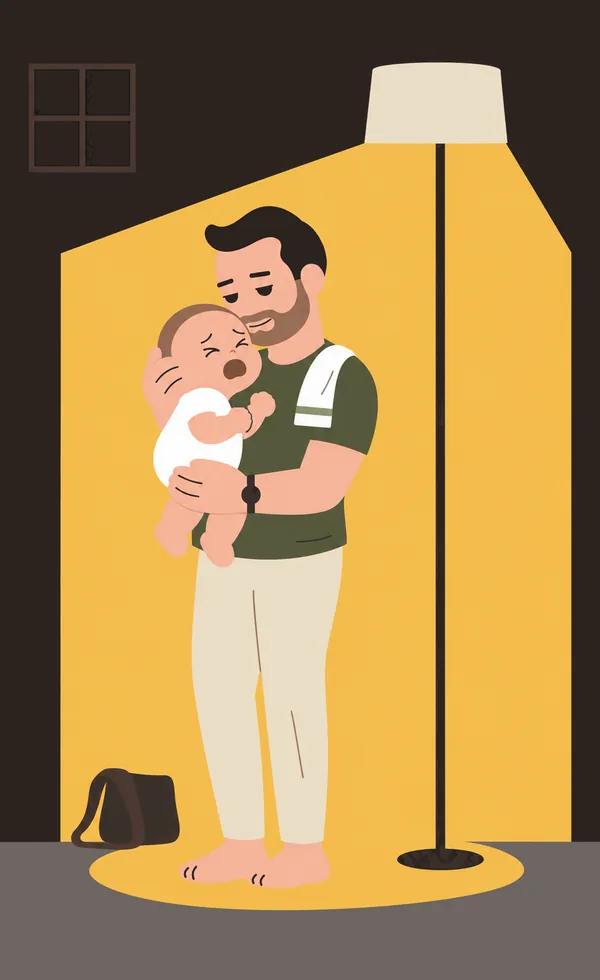
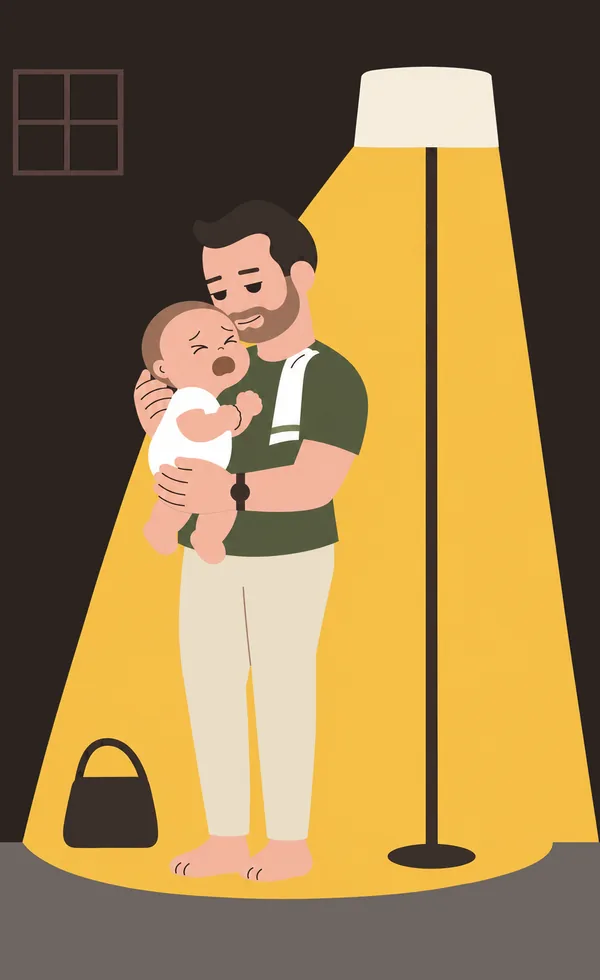
Recorta as cenas servidas das placas corrigidas do IMG-DEFECT
M05, M06 e M04 refeitos com os mesmos nomes, tamanhos e caixas; chão noturno do M05 ajustado ao token #6E6560.

Changed region(s): [[0.03, 0.0612, 1.0, 0.949], [0.0, 0.0612, 0.24, 0.1837]]

diff --git a/web/public/cenas/inicio/PROVENANCE.md b/web/public/cenas/inicio/PROVENANCE.md
@@ -6,22 +6,22 @@ The composed green-key scenes of the old Início (heroi, faixa-cacau and tabela,
 
 | file | sha256 | bytes | WxH | source | script (name + sha256) | operation | date |
 |---|---|---|---|---|---|---|---|
-| m04-recorte-1200w.webp | ab6055b0cc9f6d247d6b7fc1016b213c5839e71abc4251c4d3200daaf0850134 | 24910 | 1200x870 | DIRECAO_FABLE/4_cenas/04_tummy_espelho.png sha256 6b02a8a5d4df0db79bbb8960d174543c9bad64354b8654be19fa18bcab4074b4 | gerar_ativos.py sha256 8485a4e01cd8f989db7340d77d502f4da907c993941f3b3b68ca94eb8b5ae7d6 | colour snap (tolerances papel 12, cacau 14, areia 12, #6E6560 10, #3A302B 7), crop per slot sheet r2, LANCZOS resize to 1200x870, encoder WebP q82 m6 LANCZOS | 2026-11-18 |
-| m04-recorte-350w.webp | b843a86d0fb500f64a8a5624bd846846ade8833986334f18a07f1d2fecd464c0 | 6546 | 350x254 | DIRECAO_FABLE/4_cenas/04_tummy_espelho.png sha256 6b02a8a5d4df0db79bbb8960d174543c9bad64354b8654be19fa18bcab4074b4 | gerar_ativos.py sha256 8485a4e01cd8f989db7340d77d502f4da907c993941f3b3b68ca94eb8b5ae7d6 | colour snap (tolerances papel 12, cacau 14, areia 12, #6E6560 10, #3A302B 7), crop per slot sheet r2, LANCZOS resize to 350x254, encoder WebP q82 m6 LANCZOS | 2026-11-18 |
-| m04-recorte-600w.webp | 12465801bde4505f95f419bf01ef33aacf7f9fe5344b3503775eb2d8c09b92ab | 11364 | 600x435 | DIRECAO_FABLE/4_cenas/04_tummy_espelho.png sha256 6b02a8a5d4df0db79bbb8960d174543c9bad64354b8654be19fa18bcab4074b4 | gerar_ativos.py sha256 8485a4e01cd8f989db7340d77d502f4da907c993941f3b3b68ca94eb8b5ae7d6 | colour snap (tolerances papel 12, cacau 14, areia 12, #6E6560 10, #3A302B 7), crop per slot sheet r2, LANCZOS resize to 600x435, encoder WebP q82 m6 LANCZOS | 2026-11-18 |
-| m04-recorte-700w.webp | 33f61e0929b6fcbfdf7c76bb7fdc2c9b4e431713fa3b6a5c6679d1a244551cad | 13316 | 700x508 | DIRECAO_FABLE/4_cenas/04_tummy_espelho.png sha256 6b02a8a5d4df0db79bbb8960d174543c9bad64354b8654be19fa18bcab4074b4 | gerar_ativos.py sha256 8485a4e01cd8f989db7340d77d502f4da907c993941f3b3b68ca94eb8b5ae7d6 | colour snap (tolerances papel 12, cacau 14, areia 12, #6E6560 10, #3A302B 7), crop per slot sheet r2, LANCZOS resize to 700x508, encoder WebP q82 m6 LANCZOS | 2026-11-18 |
-| m05-luz-390c-390w.png | 6e22e3c1b293b8e4c9a3ebaacb8d76be4aeea5e61498f910ceec78c07e9cb205 | 5247 | 390x306 | DIRECAO_FABLE/4_cenas/05_troca_1730_v3.png sha256 8fb82e2b25fa6e628234fb630d397ff0faa92998651ccc9d12103422f444385e minus DIRECAO_FABLE/7_camadas_luz/v4/M05_base_sol.png sha256 1f2adcaae880b43a67b805ed9d341a7b57051b8dcc6df763d6939c9acbfe4b97 | gerar_ativos.py sha256 8485a4e01cd8f989db7340d77d502f4da907c993941f3b3b68ca94eb8b5ae7d6 | colour snap (tolerances papel 12, cacau 14, areia 12, #6E6560 10, #3A302B 7), layer = pixels where lit differs from base; crop per slot sheet r2, LANCZOS resize to 390x306, encoder layer png_paleta | 2026-11-18 |
-| m05-luz-900w.png | f7450fe38b1eba6e677d0e59f8c2b785d102c0619fbade265fad7d810f23066d | 9967 | 900x507 | DIRECAO_FABLE/4_cenas/05_troca_1730_v3.png sha256 8fb82e2b25fa6e628234fb630d397ff0faa92998651ccc9d12103422f444385e minus DIRECAO_FABLE/7_camadas_luz/v4/M05_base_sol.png sha256 1f2adcaae880b43a67b805ed9d341a7b57051b8dcc6df763d6939c9acbfe4b97 | gerar_ativos.py sha256 8485a4e01cd8f989db7340d77d502f4da907c993941f3b3b68ca94eb8b5ae7d6 | colour snap (tolerances papel 12, cacau 14, areia 12, #6E6560 10, #3A302B 7), layer = pixels where lit differs from base; crop per slot sheet r2, LANCZOS resize to 900x507, encoder layer png_paleta | 2026-11-18 |
-| m05-sol-1672w.webp | 5878b0856ba4df23143041043a235993eb1bbb786b30b3a5071b5c8777196370 | 31976 | 1672x941 | DIRECAO_FABLE/7_camadas_luz/v4/M05_base_sol.png sha256 1f2adcaae880b43a67b805ed9d341a7b57051b8dcc6df763d6939c9acbfe4b97 | gerar_ativos.py sha256 8485a4e01cd8f989db7340d77d502f4da907c993941f3b3b68ca94eb8b5ae7d6 | colour snap (tolerances papel 12, cacau 14, areia 12, #6E6560 10, #3A302B 7), crop per slot sheet r2, LANCZOS resize to 1672x941, encoder WebP q82 m6 LANCZOS | 2026-11-18 |
-| m05-sol-390c-390w.webp | df5f9050b110e5395cd358a31deb9ef762429794c83490eefff8b0fc184cd933 | 8108 | 390x306 | DIRECAO_FABLE/7_camadas_luz/v4/M05_base_sol.png sha256 1f2adcaae880b43a67b805ed9d341a7b57051b8dcc6df763d6939c9acbfe4b97 | gerar_ativos.py sha256 8485a4e01cd8f989db7340d77d502f4da907c993941f3b3b68ca94eb8b5ae7d6 | colour snap (tolerances papel 12, cacau 14, areia 12, #6E6560 10, #3A302B 7), crop per slot sheet r2, LANCZOS resize to 390x306, encoder WebP q82 m6 LANCZOS | 2026-11-18 |
-| m05-sol-390c-780w.webp | 5f5b325f34b953fe3be72830c8003cca867c5439e8e88e22442f244e4262bd35 | 18268 | 780x612 | DIRECAO_FABLE/7_camadas_luz/v4/M05_base_sol.png sha256 1f2adcaae880b43a67b805ed9d341a7b57051b8dcc6df763d6939c9acbfe4b97 | gerar_ativos.py sha256 8485a4e01cd8f989db7340d77d502f4da907c993941f3b3b68ca94eb8b5ae7d6 | colour snap (tolerances papel 12, cacau 14, areia 12, #6E6560 10, #3A302B 7), crop per slot sheet r2, LANCZOS resize to 780x612, encoder WebP q82 m6 LANCZOS | 2026-11-18 |
-| m05-sol-900w.webp | 9f40a8c1d44c20d838334d4c95072eb59d0f6f81e6a9a0867722d2a31c7d2b46 | 15808 | 900x507 | DIRECAO_FABLE/7_camadas_luz/v4/M05_base_sol.png sha256 1f2adcaae880b43a67b805ed9d341a7b57051b8dcc6df763d6939c9acbfe4b97 | gerar_ativos.py sha256 8485a4e01cd8f989db7340d77d502f4da907c993941f3b3b68ca94eb8b5ae7d6 | colour snap (tolerances papel 12, cacau 14, areia 12, #6E6560 10, #3A302B 7), crop per slot sheet r2, LANCZOS resize to 900x507, encoder WebP q82 m6 LANCZOS | 2026-11-18 |
-| m06-apagada-300w.webp | 186d9678b6c5ae1412f28100ec7689a98777d00b01364715cd817aa9e492d0b1 | 5880 | 300x490 | DIRECAO_FABLE/7_camadas_luz/v4/M06_base_apagada.png sha256 88c563c3f3906b3cfcd51eed4fbc7358f7917e40c7d23dc75652ba333b22b520 | gerar_ativos.py sha256 8485a4e01cd8f989db7340d77d502f4da907c993941f3b3b68ca94eb8b5ae7d6 | colour snap (tolerances papel 12, cacau 14, areia 12, #6E6560 10, #3A302B 7), crop per slot sheet r2, LANCZOS resize to 300x490, encoder WebP q82 m6 LANCZOS | 2026-11-18 |
-| m06-apagada-396w.webp | b60a669488bb4eb873bd1f2ac2bcff4c8c8d10318d18d017486d85cc6256e443 | 7894 | 396x647 | DIRECAO_FABLE/7_camadas_luz/v4/M06_base_apagada.png sha256 88c563c3f3906b3cfcd51eed4fbc7358f7917e40c7d23dc75652ba333b22b520 | gerar_ativos.py sha256 8485a4e01cd8f989db7340d77d502f4da907c993941f3b3b68ca94eb8b5ae7d6 | colour snap (tolerances papel 12, cacau 14, areia 12, #6E6560 10, #3A302B 7), crop per slot sheet r2, LANCZOS resize to 396x647, encoder WebP q82 m6 LANCZOS | 2026-11-18 |
-| m06-apagada-600w.webp | de72338e27e772910a24653a1376b1de9511826d8f1e09c8b7facb8930f4541d | 12662 | 600x980 | DIRECAO_FABLE/7_camadas_luz/v4/M06_base_apagada.png sha256 88c563c3f3906b3cfcd51eed4fbc7358f7917e40c7d23dc75652ba333b22b520 | gerar_ativos.py sha256 8485a4e01cd8f989db7340d77d502f4da907c993941f3b3b68ca94eb8b5ae7d6 | colour snap (tolerances papel 12, cacau 14, areia 12, #6E6560 10, #3A302B 7), crop per slot sheet r2, LANCZOS resize to 600x980, encoder WebP q82 m6 LANCZOS | 2026-11-18 |
-| m06-apagada-792w.webp | 939bb2432dd6679c75d9836ffb1f2b2c50701ce9b41ea810db3c703dc9fa8027 | 17580 | 792x1293 | DIRECAO_FABLE/7_camadas_luz/v4/M06_base_apagada.png sha256 88c563c3f3906b3cfcd51eed4fbc7358f7917e40c7d23dc75652ba333b22b520 | gerar_ativos.py sha256 8485a4e01cd8f989db7340d77d502f4da907c993941f3b3b68ca94eb8b5ae7d6 | colour snap (tolerances papel 12, cacau 14, areia 12, #6E6560 10, #3A302B 7), crop per slot sheet r2, LANCZOS resize to 792x1293, encoder WebP q82 m6 LANCZOS | 2026-11-18 |
-| m06-luz-300w.png | 2c5c8fd5b4936bdb7299f9bea5e1d999727cbf9442dae9bb59d07d0735394e46 | 7720 | 300x490 | DIRECAO_FABLE/4_cenas/06_colo_1745_v5.png sha256 2a9a0daa6790d1226683df76dcc746210cf7cc142957adc620cd8bfb400f8619 minus DIRECAO_FABLE/7_camadas_luz/v4/M06_base_apagada.png sha256 88c563c3f3906b3cfcd51eed4fbc7358f7917e40c7d23dc75652ba333b22b520 | gerar_ativos.py sha256 8485a4e01cd8f989db7340d77d502f4da907c993941f3b3b68ca94eb8b5ae7d6 | colour snap (tolerances papel 12, cacau 14, areia 12, #6E6560 10, #3A302B 7), layer = pixels where lit differs from base; crop per slot sheet r2, LANCZOS resize to 300x490, encoder layer png_paleta | 2026-11-18 |
-| m06-luz-396w.png | 19a12cf1cd52a04ff7c2a9919cac334374458575c576ba3e32794e284cd6b8f1 | 10250 | 396x647 | DIRECAO_FABLE/4_cenas/06_colo_1745_v5.png sha256 2a9a0daa6790d1226683df76dcc746210cf7cc142957adc620cd8bfb400f8619 minus DIRECAO_FABLE/7_camadas_luz/v4/M06_base_apagada.png sha256 88c563c3f3906b3cfcd51eed4fbc7358f7917e40c7d23dc75652ba333b22b520 | gerar_ativos.py sha256 8485a4e01cd8f989db7340d77d502f4da907c993941f3b3b68ca94eb8b5ae7d6 | colour snap (tolerances papel 12, cacau 14, areia 12, #6E6560 10, #3A302B 7), layer = pixels where lit differs from base; crop per slot sheet r2, LANCZOS resize to 396x647, encoder layer png_paleta | 2026-11-18 |
+| m04-recorte-1200w.webp | 09abe79e2a049eddd3dac449e4f335c0781ddd11da5b9992ccc67d2ac5635140 | 25560 | 1200x870 | IMG_DEFECT/accept_20261119/out/04_tummy_espelho_v2.png sha256:d50e9125f03c45d1ad626a0be8c29efae178e370bf71448c0b21c0eb92e6e2f0 | recortar.py sha256 0dabcebe6a4e2c07ecfd3bdcffd4ae025a934db8cb4f5c4200fff0e659aef3bc | crop 0,30,1200,900 (1200x870), LANCZOS to 1200x870, encoder WebP q82 m6 | 2026-11-19 |
+| m04-recorte-350w.webp | 5330c84b11e9a71f939c2dab4c77e708ceb5bb82c339e44630a9d5a7fcb434de | 6622 | 350x254 | IMG_DEFECT/accept_20261119/out/04_tummy_espelho_v2.png sha256:d50e9125f03c45d1ad626a0be8c29efae178e370bf71448c0b21c0eb92e6e2f0 | recortar.py sha256 0dabcebe6a4e2c07ecfd3bdcffd4ae025a934db8cb4f5c4200fff0e659aef3bc | crop 0,30,1200,900 (1200x870), LANCZOS to 350x254, encoder WebP q82 m6 | 2026-11-19 |
+| m04-recorte-600w.webp | dddd45c0a91d570f735ea237d35bf1d6b866f898f1f1625d14c49fa5fef2df21 | 11730 | 600x435 | IMG_DEFECT/accept_20261119/out/04_tummy_espelho_v2.png sha256:d50e9125f03c45d1ad626a0be8c29efae178e370bf71448c0b21c0eb92e6e2f0 | recortar.py sha256 0dabcebe6a4e2c07ecfd3bdcffd4ae025a934db8cb4f5c4200fff0e659aef3bc | crop 0,30,1200,900 (1200x870), LANCZOS to 600x435, encoder WebP q82 m6 | 2026-11-19 |
+| m04-recorte-700w.webp | 2046c33f53617940bbdc46df7855dbfd6f1d68691367da0b88de96079b8b76e1 | 13792 | 700x508 | IMG_DEFECT/accept_20261119/out/04_tummy_espelho_v2.png sha256:d50e9125f03c45d1ad626a0be8c29efae178e370bf71448c0b21c0eb92e6e2f0 | recortar.py sha256 0dabcebe6a4e2c07ecfd3bdcffd4ae025a934db8cb4f5c4200fff0e659aef3bc | crop 0,30,1200,900 (1200x870), LANCZOS to 700x508, encoder WebP q82 m6 | 2026-11-19 |
+| m05-luz-390c-390w.png | d61b4a48b5121e24dacc232096ade633865fc5c1bdc1d22be8659c5b90f7b15f | 5232 | 390x306 | IMG_DEFECT/out/v5/M05_luz_lampada.png sha256:962250fd9183bd9d62952e5ef19afe6d6deffad148151f858cc4e4889bee3ae1 (RGBA lamp layer; base IMG_DEFECT/out/v5/M05_base_sol.png sha256:b3867008a76b9858f7c72aeeed8925be0af4fbc08586084ca4b7b43c4f9e0258) | recortar.py sha256 0dabcebe6a4e2c07ecfd3bdcffd4ae025a934db8cb4f5c4200fff0e659aef3bc | crop 473,0,1672,941 (1199x941); colour snap (night floor #645A57->#6E6560 on M05 only), layer = RGBA lamp layer from IMG_DEFECT v5, premultiplied LANCZOS to 390x306, encoder png_paleta (256 colours) | 2026-11-19 |
+| m05-luz-900w.png | 3e3bf733a9aaf3276e64a07bc9573da0553acea8dcdd68230f6c4aa976e4afaf | 9047 | 900x507 | IMG_DEFECT/out/v5/M05_luz_lampada.png sha256:962250fd9183bd9d62952e5ef19afe6d6deffad148151f858cc4e4889bee3ae1 (RGBA lamp layer; base IMG_DEFECT/out/v5/M05_base_sol.png sha256:b3867008a76b9858f7c72aeeed8925be0af4fbc08586084ca4b7b43c4f9e0258) | recortar.py sha256 0dabcebe6a4e2c07ecfd3bdcffd4ae025a934db8cb4f5c4200fff0e659aef3bc | crop 0,0,1672,941 (1672x941); colour snap (night floor #645A57->#6E6560 on M05 only), layer = RGBA lamp layer from IMG_DEFECT v5, premultiplied LANCZOS to 900x507, encoder png_paleta (256 colours) | 2026-11-19 |
+| m05-sol-1672w.webp | a3827846c9e4e8d8ea98bdded10fbb787afbd98c005dfe5748942e490de02c37 | 32558 | 1672x941 | IMG_DEFECT/out/v5/M05_base_sol.png sha256:b3867008a76b9858f7c72aeeed8925be0af4fbc08586084ca4b7b43c4f9e0258 (served from the colour-snapped copy sha256:3bb79201ba2e289a67e0fd931ec8919fac11722879c72a77df08909701dfec5e) | recortar.py sha256 0dabcebe6a4e2c07ecfd3bdcffd4ae025a934db8cb4f5c4200fff0e659aef3bc | crop 0,0,1672,941 (1672x941), LANCZOS to 1672x941, encoder WebP q82 m6, night-floor colour snap #645A57->#6E6560 | 2026-11-19 |
+| m05-sol-390c-390w.webp | 80e5877b7ed09928dc2169b01ee92bd4def9158adb48551ccaca546aae71fa20 | 8166 | 390x306 | IMG_DEFECT/out/v5/M05_base_sol.png sha256:b3867008a76b9858f7c72aeeed8925be0af4fbc08586084ca4b7b43c4f9e0258 (served from the colour-snapped copy sha256:3bb79201ba2e289a67e0fd931ec8919fac11722879c72a77df08909701dfec5e) | recortar.py sha256 0dabcebe6a4e2c07ecfd3bdcffd4ae025a934db8cb4f5c4200fff0e659aef3bc | crop 473,0,1672,941 (1199x941), LANCZOS to 390x306, encoder WebP q82 m6, night-floor colour snap #645A57->#6E6560 | 2026-11-19 |
+| m05-sol-390c-780w.webp | 9492db67e5cb6709e1df49bb64d050780231eb7e54f4cd5d25804e30fc8a6ff0 | 17974 | 780x612 | IMG_DEFECT/out/v5/M05_base_sol.png sha256:b3867008a76b9858f7c72aeeed8925be0af4fbc08586084ca4b7b43c4f9e0258 (served from the colour-snapped copy sha256:3bb79201ba2e289a67e0fd931ec8919fac11722879c72a77df08909701dfec5e) | recortar.py sha256 0dabcebe6a4e2c07ecfd3bdcffd4ae025a934db8cb4f5c4200fff0e659aef3bc | crop 473,0,1672,941 (1199x941), LANCZOS to 780x612, encoder WebP q82 m6, night-floor colour snap #645A57->#6E6560 | 2026-11-19 |
+| m05-sol-900w.webp | 9c157f1a86a98732c5973b077d3a1ece45bc59d53af0ffcbecd618ed00c3faed | 16404 | 900x507 | IMG_DEFECT/out/v5/M05_base_sol.png sha256:b3867008a76b9858f7c72aeeed8925be0af4fbc08586084ca4b7b43c4f9e0258 (served from the colour-snapped copy sha256:3bb79201ba2e289a67e0fd931ec8919fac11722879c72a77df08909701dfec5e) | recortar.py sha256 0dabcebe6a4e2c07ecfd3bdcffd4ae025a934db8cb4f5c4200fff0e659aef3bc | crop 0,0,1672,941 (1672x941), LANCZOS to 900x507, encoder WebP q82 m6, night-floor colour snap #645A57->#6E6560 | 2026-11-19 |
+| m06-apagada-300w.webp | d5a2b0ab00f8a73e49da6868da2e0d26f8a624ed0010a27851cc96cc0c8d44f8 | 5646 | 300x490 | IMG_DEFECT/out/v5/M06_base_apagada.png sha256:cec1c8bcb515a3379517fb613ece9f93d429845ac0700f3ecd1c49277b57b2f2 | recortar.py sha256 0dabcebe6a4e2c07ecfd3bdcffd4ae025a934db8cb4f5c4200fff0e659aef3bc | crop 0,0,981,1602 (981x1602), LANCZOS to 300x490, encoder WebP q82 m6 | 2026-11-19 |
+| m06-apagada-396w.webp | 2c45f9f6348479cb96a102cc97a927c6582d429dd9f8604fadf017f31b9428bb | 7710 | 396x647 | IMG_DEFECT/out/v5/M06_base_apagada.png sha256:cec1c8bcb515a3379517fb613ece9f93d429845ac0700f3ecd1c49277b57b2f2 | recortar.py sha256 0dabcebe6a4e2c07ecfd3bdcffd4ae025a934db8cb4f5c4200fff0e659aef3bc | crop 0,0,981,1602 (981x1602), LANCZOS to 396x647, encoder WebP q82 m6 | 2026-11-19 |
+| m06-apagada-600w.webp | c1e39270fb1d0bd99331edb0a0dad39a2b7016e87886cc52b9749fdc979ea4a2 | 12528 | 600x980 | IMG_DEFECT/out/v5/M06_base_apagada.png sha256:cec1c8bcb515a3379517fb613ece9f93d429845ac0700f3ecd1c49277b57b2f2 | recortar.py sha256 0dabcebe6a4e2c07ecfd3bdcffd4ae025a934db8cb4f5c4200fff0e659aef3bc | crop 0,0,981,1602 (981x1602), LANCZOS to 600x980, encoder WebP q82 m6 | 2026-11-19 |
+| m06-apagada-792w.webp | b483b4c41236d4f0f3bbf9c5f0ebd5aaa9953cc09f31778e8adc05c614c3c2df | 16828 | 792x1293 | IMG_DEFECT/out/v5/M06_base_apagada.png sha256:cec1c8bcb515a3379517fb613ece9f93d429845ac0700f3ecd1c49277b57b2f2 | recortar.py sha256 0dabcebe6a4e2c07ecfd3bdcffd4ae025a934db8cb4f5c4200fff0e659aef3bc | crop 0,0,981,1602 (981x1602), LANCZOS to 792x1293, encoder WebP q82 m6 | 2026-11-19 |
+| m06-luz-300w.png | bebaaa20f03f2807cc6a53894b568472adac502231a094c0eca7f6a6442e93bf | 10667 | 300x490 | IMG_DEFECT/out/v5/M06_luz_lampada.png sha256:11888e527629b421eb7ab36fdee72706ec1f3c44234d19c9d6cd659e75789ad3 (RGBA lamp layer; base IMG_DEFECT/out/v5/M06_base_apagada.png sha256:cec1c8bcb515a3379517fb613ece9f93d429845ac0700f3ecd1c49277b57b2f2) | recortar.py sha256 0dabcebe6a4e2c07ecfd3bdcffd4ae025a934db8cb4f5c4200fff0e659aef3bc | crop 0,0,981,1602 (981x1602); colour snap (night floor #645A57->#6E6560 on M05 only), layer = RGBA lamp layer from IMG_DEFECT v5, premultiplied LANCZOS to 300x490, encoder png_paleta (64 colours) | 2026-11-19 |
+| m06-luz-396w.png | c2d255b98a9714ca05dcd1fe84da8d246538c00d871c08e41fe037286fd8237f | 11918 | 396x647 | IMG_DEFECT/out/v5/M06_luz_lampada.png sha256:11888e527629b421eb7ab36fdee72706ec1f3c44234d19c9d6cd659e75789ad3 (RGBA lamp layer; base IMG_DEFECT/out/v5/M06_base_apagada.png sha256:cec1c8bcb515a3379517fb613ece9f93d429845ac0700f3ecd1c49277b57b2f2) | recortar.py sha256 0dabcebe6a4e2c07ecfd3bdcffd4ae025a934db8cb4f5c4200fff0e659aef3bc | crop 0,0,981,1602 (981x1602); colour snap (night floor #645A57->#6E6560 on M05 only), layer = RGBA lamp layer from IMG_DEFECT v5, premultiplied LANCZOS to 396x647, encoder png_paleta (6 colours) | 2026-11-19 |
 
 Not served (over the 12,000 B lamp-layer cap):
 
@@ -29,3 +29,5 @@ Not served (over the 12,000 B lamp-layer cap):
 - `m05-luz-390c-780w.png`: 12363 bytes
 - `m06-luz-600w.png`: 16312 bytes
 - `m06-luz-792w.png`: 24307 bytes
+
+IMG-SWAP (2026-11-19): re-cut from the accepted defect-pass plates; sources and acceptance: IMG_DEFECT/out/PROVENANCE.md (plates 1-2, layers, crops.json) and IMG_DEFECT/accept_20261119/PROVENANCE.md (acceptance, plate 4 fix run).

diff --git a/web/public/cenas/cuidado/PROVENANCE.md b/web/public/cenas/cuidado/PROVENANCE.md
@@ -8,11 +8,13 @@ m01-icaro-1152w.webp | DIRECAO_FABLE/4_cenas/01_mamada_0300.png sha256:758d36cd5
 m01-icaro-390c-390w.webp | DIRECAO_FABLE/4_cenas/01_mamada_0300.png sha256:758d36cd5f15cb880c127a2b39ddcda972edf21409ee5b2109a2363df51032ce | .oc/ativos/preparar_placas.py sha256:cd37214997b29d2d0d9331a49c32d5986e0bc1d73f75592ef88d849987d21b6e; snap whole plate to prep.py table, crop, downscale | crop 520,250,1300,915 (780x665) | LANCZOS to 390x332 from 780x665 | WebP q82 method 6, Pillow 12.3.0 | sha256:e06b28767214dad914b5b2dea1701c35e73198f0388f459bf8c9098b9fd007fe | 7512 B | 390x332
 m01-icaro-390c-780w.webp | DIRECAO_FABLE/4_cenas/01_mamada_0300.png sha256:758d36cd5f15cb880c127a2b39ddcda972edf21409ee5b2109a2363df51032ce | .oc/ativos/preparar_placas.py sha256:cd37214997b29d2d0d9331a49c32d5986e0bc1d73f75592ef88d849987d21b6e; snap whole plate to prep.py table, crop, downscale | crop 520,250,1300,915 (780x665) | none (1:1) to 780x665 from 780x665 | WebP q82 method 6, Pillow 12.3.0 | sha256:6cb64902f84e922eb13f872c4f2f7ad69e43695c0d5a9c2affdff6d62cfd5af4 | 15980 B | 780x665
 m01-icaro-760w.webp | DIRECAO_FABLE/4_cenas/01_mamada_0300.png sha256:758d36cd5f15cb880c127a2b39ddcda972edf21409ee5b2109a2363df51032ce | .oc/ativos/preparar_placas.py sha256:cd37214997b29d2d0d9331a49c32d5986e0bc1d73f75592ef88d849987d21b6e; snap whole plate to prep.py table, crop, downscale | crop 520,250,1672,915 (1152x665) | LANCZOS to 760x439 from 1152x665 | WebP q82 method 6, Pillow 12.3.0 | sha256:0db7b3ba34dac08be5cadd84a1e7f6342bdd5f5b4843d2ec5a8d2d94b81a906e | 10034 B | 760x439
-m05-maos-1472w.webp | DIRECAO_FABLE/4_cenas/05_troca_1730_v3.png sha256:8fb82e2b25fa6e628234fb630d397ff0faa92998651ccc9d12103422f444385e | .oc/ativos/preparar_placas.py sha256:cd37214997b29d2d0d9331a49c32d5986e0bc1d73f75592ef88d849987d21b6e; snap whole plate to prep.py table, crop, downscale | crop 200,50,1672,700 (1472x650) | none (1:1) to 1472x650 from 1472x650 | WebP q82 method 6, Pillow 12.3.0 | sha256:778eb19ec16de9781db42a8920c93769e31654f83ae6dd6233bc1cdafc04def8 | 28298 B | 1472x650
-m05-maos-390c-390w.webp | DIRECAO_FABLE/4_cenas/05_troca_1730_v3.png sha256:8fb82e2b25fa6e628234fb630d397ff0faa92998651ccc9d12103422f444385e | .oc/ativos/preparar_placas.py sha256:cd37214997b29d2d0d9331a49c32d5986e0bc1d73f75592ef88d849987d21b6e; snap whole plate to prep.py table, crop, downscale | crop 560,50,1300,700 (740x650) | LANCZOS to 390x343 from 740x650 | WebP q82 method 6, Pillow 12.3.0 | sha256:69c99a81b539431eea5155df9bb3c00882a4afa8a671abdbd497be3db4ab5132 | 11674 B | 390x343
-m05-maos-390c-740w.webp | DIRECAO_FABLE/4_cenas/05_troca_1730_v3.png sha256:8fb82e2b25fa6e628234fb630d397ff0faa92998651ccc9d12103422f444385e | .oc/ativos/preparar_placas.py sha256:cd37214997b29d2d0d9331a49c32d5986e0bc1d73f75592ef88d849987d21b6e; snap whole plate to prep.py table, crop, downscale | crop 560,50,1300,700 (740x650) | none (1:1) to 740x650 from 740x650 | WebP q82 method 6, Pillow 12.3.0 | sha256:acbfab36df95b086f6b2a92395da62fadbc298114adbff24e9a53136acded588 | 23178 B | 740x650
-m05-maos-800w.webp | DIRECAO_FABLE/4_cenas/05_troca_1730_v3.png sha256:8fb82e2b25fa6e628234fb630d397ff0faa92998651ccc9d12103422f444385e | .oc/ativos/preparar_placas.py sha256:cd37214997b29d2d0d9331a49c32d5986e0bc1d73f75592ef88d849987d21b6e; snap whole plate to prep.py table, crop, downscale | crop 200,50,1672,700 (1472x650) | LANCZOS to 800x353 from 1472x650 | WebP q82 method 6, Pillow 12.3.0 | sha256:d7d89135a58e8fbebd3a274f87f10d9fe96c875a13b39ef633a2722ab078964f | 14176 B | 800x353
+m05-maos-1472w.webp | IMG_DEFECT/out/05_troca_1730_v4.png sha256:c68b01c1e0aff8942a1fea1a0fb06138a9a21dace1762a7b6a13addbc9764660 (served from the colour-snapped copy sha256:f00a2efa82b4711f64ff3722f3f74550021bb8d62414b5ec1720f4339f9ec269) | .oc/ativos/recortar.py sha256:0dabcebe6a4e2c07ecfd3bdcffd4ae025a934db8cb4f5c4200fff0e659aef3bc; IMG-SWAP re-cut of the accepted IMG-DEFECT plate, crop, downscale | crop 20,30,1660,754 (1640x724) | LANCZOS to 1472x650 from 1640x724 | WebP q82 method 6, Pillow 12.3.0 | sha256:fd349a29485786a6d820ff759823850ede840cd49a8d21a18cf3052aadb1a50f | 26666 B | 1472x650
+m05-maos-390c-390w.webp | IMG_DEFECT/out/05_troca_1730_v4.png sha256:c68b01c1e0aff8942a1fea1a0fb06138a9a21dace1762a7b6a13addbc9764660 (served from the colour-snapped copy sha256:f00a2efa82b4711f64ff3722f3f74550021bb8d62414b5ec1720f4339f9ec269) | .oc/ativos/recortar.py sha256:0dabcebe6a4e2c07ecfd3bdcffd4ae025a934db8cb4f5c4200fff0e659aef3bc; IMG-SWAP re-cut of the accepted IMG-DEFECT plate, crop, downscale | crop 560,50,1300,700 (740x650) | LANCZOS to 390x343 from 740x650 | WebP q82 method 6, Pillow 12.3.0 | sha256:8a4f8ea940eb68f938f7553d4370ad2380766b00946f14a91e044ad3fafcfa6d | 11544 B | 390x343
+m05-maos-390c-740w.webp | IMG_DEFECT/out/05_troca_1730_v4.png sha256:c68b01c1e0aff8942a1fea1a0fb06138a9a21dace1762a7b6a13addbc9764660 (served from the colour-snapped copy sha256:f00a2efa82b4711f64ff3722f3f74550021bb8d62414b5ec1720f4339f9ec269) | .oc/ativos/recortar.py sha256:0dabcebe6a4e2c07ecfd3bdcffd4ae025a934db8cb4f5c4200fff0e659aef3bc; IMG-SWAP re-cut of the accepted IMG-DEFECT plate, crop, downscale | crop 560,50,1300,700 (740x650) | none (1:1) from 740x650 | WebP q82 method 6, Pillow 12.3.0 | sha256:f669174c6510c73475cb3b12151ff62c3ec1c071950a10b26e75af36cb7e77e8 | 22454 B | 740x650
+m05-maos-800w.webp | IMG_DEFECT/out/05_troca_1730_v4.png sha256:c68b01c1e0aff8942a1fea1a0fb06138a9a21dace1762a7b6a13addbc9764660 (served from the colour-snapped copy sha256:f00a2efa82b4711f64ff3722f3f74550021bb8d62414b5ec1720f4339f9ec269) | .oc/ativos/recortar.py sha256:0dabcebe6a4e2c07ecfd3bdcffd4ae025a934db8cb4f5c4200fff0e659aef3bc; IMG-SWAP re-cut of the accepted IMG-DEFECT plate, crop, downscale | crop 20,30,1660,754 (1640x724) | LANCZOS to 800x353 from 1640x724 | WebP q82 method 6, Pillow 12.3.0 | sha256:f1d9e9ec7cf1c886437dd42c0e00a579599a36a7b2d0023d45fff46fcf4d78a7 | 13842 B | 800x353
 m12-heroi-390c-350w.webp | DIRECAO_FABLE/6_scenes1/M12_arms_v3.png sha256:e497a06243a56024d79f7c0b9bbe2166b809acb4ba59b12bf2906c94b7fdc265 | .oc/ativos/preparar_placas.py sha256:cd37214997b29d2d0d9331a49c32d5986e0bc1d73f75592ef88d849987d21b6e; snap whole plate to prep.py table, crop, downscale | crop 0,554,981,1172 (981x618) | LANCZOS to 350x220 from 981x618 | WebP q82 method 6, Pillow 12.3.0 | sha256:94c6666c118d3541b62a78b3839dbe339a5d5a17aa1d379dfc358b41943ae5d3 | 6074 B | 350x220
 m12-heroi-390c-700w.webp | DIRECAO_FABLE/6_scenes1/M12_arms_v3.png sha256:e497a06243a56024d79f7c0b9bbe2166b809acb4ba59b12bf2906c94b7fdc265 | .oc/ativos/preparar_placas.py sha256:cd37214997b29d2d0d9331a49c32d5986e0bc1d73f75592ef88d849987d21b6e; snap whole plate to prep.py table, crop, downscale | crop 0,554,981,1172 (981x618) | LANCZOS to 700x441 from 981x618 | WebP q82 method 6, Pillow 12.3.0 | sha256:a1a4cc716e1d999ca76122296b803cecb91eab7a26032960617f5455350b7dcd | 13344 B | 700x441
 m12-heroi-600w.webp | DIRECAO_FABLE/6_scenes1/M12_arms_v3.png sha256:e497a06243a56024d79f7c0b9bbe2166b809acb4ba59b12bf2906c94b7fdc265 | .oc/ativos/preparar_placas.py sha256:cd37214997b29d2d0d9331a49c32d5986e0bc1d73f75592ef88d849987d21b6e; snap whole plate to prep.py table, crop, downscale | crop 0,520,981,1602 (981x1082) | LANCZOS to 600x662 from 981x1082 | WebP q82 method 6, Pillow 12.3.0 | sha256:4753ff3cc0ce26af0bfc7f3328eee1998cdd861cc6dde5cc12c32604c2040e60 | 14516 B | 600x662
 m12-heroi-981w.webp | DIRECAO_FABLE/6_scenes1/M12_arms_v3.png sha256:e497a06243a56024d79f7c0b9bbe2166b809acb4ba59b12bf2906c94b7fdc265 | .oc/ativos/preparar_placas.py sha256:cd37214997b29d2d0d9331a49c32d5986e0bc1d73f75592ef88d849987d21b6e; snap whole plate to prep.py table, crop, downscale | crop 0,520,981,1602 (981x1082) | none (1:1) to 981x1082 from 981x1082 | WebP q82 method 6, Pillow 12.3.0 | sha256:ac67c1b5613a5d3cde1b9024717041fa6da38dc1b3c55e9e3078d869838a2ef2 | 25548 B | 981x1082
+
+IMG-SWAP (2026-11-19): re-cut from the accepted defect-pass plates; sources and acceptance: IMG_DEFECT/out/PROVENANCE.md (plates 1-2, layers, crops.json) and IMG_DEFECT/accept_20261119/PROVENANCE.md (acceptance, plate 4 fix run).

diff --git a/web/public/cenas/como-funciona/PROVENANCE.md b/web/public/cenas/como-funciona/PROVENANCE.md
@@ -8,9 +8,11 @@ m01-heroi-1672w.webp | DIRECAO_FABLE/4_cenas/01_mamada_0300.png sha256:758d36cd5
 m01-heroi-390c-390w.webp | DIRECAO_FABLE/4_cenas/01_mamada_0300.png sha256:758d36cd5f15cb880c127a2b39ddcda972edf21409ee5b2109a2363df51032ce | .oc/ativos/preparar_placas.py sha256:cd37214997b29d2d0d9331a49c32d5986e0bc1d73f75592ef88d849987d21b6e; snap whole plate to prep.py table, crop, downscale | crop 0,146,1310,915 (1310x769) | LANCZOS to 390x229 from 1310x769 | WebP q82 method 6, Pillow 12.3.0 | sha256:7f3cc9d2cff931bd6474826bd750053b13f6e468154d9132036a7307d761f9c5 | 9120 B | 390x229
 m01-heroi-390c-780w.webp | DIRECAO_FABLE/4_cenas/01_mamada_0300.png sha256:758d36cd5f15cb880c127a2b39ddcda972edf21409ee5b2109a2363df51032ce | .oc/ativos/preparar_placas.py sha256:cd37214997b29d2d0d9331a49c32d5986e0bc1d73f75592ef88d849987d21b6e; snap whole plate to prep.py table, crop, downscale | crop 0,146,1310,915 (1310x769) | LANCZOS to 780x458 from 1310x769 | WebP q82 method 6, Pillow 12.3.0 | sha256:fec20913153fd78a0a4d119f01f15ecd0a25fb4539deb1c8c41286d9eda12eed | 19590 B | 780x458
 m01-heroi-977w.webp | DIRECAO_FABLE/4_cenas/01_mamada_0300.png sha256:758d36cd5f15cb880c127a2b39ddcda972edf21409ee5b2109a2363df51032ce | .oc/ativos/preparar_placas.py sha256:cd37214997b29d2d0d9331a49c32d5986e0bc1d73f75592ef88d849987d21b6e; snap whole plate to prep.py table, crop, downscale | crop 0,0,1672,915 (1672x915) | LANCZOS to 977x535 from 1672x915 | WebP q82 method 6, Pillow 12.3.0 | sha256:67536bed60c007d0cc83af1ea38369f0f00ea67d8a1e25f25fdd86730de5f3aa | 19744 B | 977x535
-m04-1040w.webp | DIRECAO_FABLE/4_cenas/04_tummy_espelho.png sha256:6b02a8a5d4df0db79bbb8960d174543c9bad64354b8654be19fa18bcab4074b4 | .oc/ativos/preparar_placas.py sha256:cd37214997b29d2d0d9331a49c32d5986e0bc1d73f75592ef88d849987d21b6e; snap whole plate to prep.py table, crop, downscale | crop 0,30,1200,900 (1200x870) | LANCZOS to 1040x754 from 1200x870 | WebP q82 method 6, Pillow 12.3.0 | sha256:cf7a74f5e3fd2268a47afb07a4a26ecf9feb0dc9b905e5616be6f2f8d171c25c | 20988 B | 1040x754
-m04-350w.webp | DIRECAO_FABLE/4_cenas/04_tummy_espelho.png sha256:6b02a8a5d4df0db79bbb8960d174543c9bad64354b8654be19fa18bcab4074b4 | .oc/ativos/preparar_placas.py sha256:cd37214997b29d2d0d9331a49c32d5986e0bc1d73f75592ef88d849987d21b6e; snap whole plate to prep.py table, crop, downscale | crop 0,30,1200,900 (1200x870) | LANCZOS to 350x254 from 1200x870 | WebP q82 method 6, Pillow 12.3.0 | sha256:b843a86d0fb500f64a8a5624bd846846ade8833986334f18a07f1d2fecd464c0 | 6546 B | 350x254
-m04-520w.webp | DIRECAO_FABLE/4_cenas/04_tummy_espelho.png sha256:6b02a8a5d4df0db79bbb8960d174543c9bad64354b8654be19fa18bcab4074b4 | .oc/ativos/preparar_placas.py sha256:cd37214997b29d2d0d9331a49c32d5986e0bc1d73f75592ef88d849987d21b6e; snap whole plate to prep.py table, crop, downscale | crop 0,30,1200,900 (1200x870) | LANCZOS to 520x377 from 1200x870 | WebP q82 method 6, Pillow 12.3.0 | sha256:f807d3e7aa9f62cc4c16adbeaf57033830f7dfe5be7cadf2116e5ff7a64e07ee | 9898 B | 520x377
-m04-700w.webp | DIRECAO_FABLE/4_cenas/04_tummy_espelho.png sha256:6b02a8a5d4df0db79bbb8960d174543c9bad64354b8654be19fa18bcab4074b4 | .oc/ativos/preparar_placas.py sha256:cd37214997b29d2d0d9331a49c32d5986e0bc1d73f75592ef88d849987d21b6e; snap whole plate to prep.py table, crop, downscale | crop 0,30,1200,900 (1200x870) | LANCZOS to 700x508 from 1200x870 | WebP q82 method 6, Pillow 12.3.0 | sha256:33f61e0929b6fcbfdf7c76bb7fdc2c9b4e431713fa3b6a5c6679d1a244551cad | 13316 B | 700x508
-m06-300w.webp | DIRECAO_FABLE/4_cenas/06_colo_1745_v5.png sha256:2a9a0daa6790d1226683df76dcc746210cf7cc142957adc620cd8bfb400f8619 | .oc/ativos/preparar_placas.py sha256:cd37214997b29d2d0d9331a49c32d5986e0bc1d73f75592ef88d849987d21b6e; snap whole plate to prep.py table, crop, downscale | crop 0,0,981,1602 (981x1602) | LANCZOS to 300x490 from 981x1602 | WebP q82 method 6, Pillow 12.3.0 | sha256:2c8a2f0c3828f19efac03d6b8caf5289628be208fc15d8d44860b574133d5f3f | 7660 B | 300x490
-m06-600w.webp | DIRECAO_FABLE/4_cenas/06_colo_1745_v5.png sha256:2a9a0daa6790d1226683df76dcc746210cf7cc142957adc620cd8bfb400f8619 | .oc/ativos/preparar_placas.py sha256:cd37214997b29d2d0d9331a49c32d5986e0bc1d73f75592ef88d849987d21b6e; snap whole plate to prep.py table, crop, downscale | crop 0,0,981,1602 (981x1602) | LANCZOS to 600x980 from 981x1602 | WebP q82 method 6, Pillow 12.3.0 | sha256:75ea34324ef19111eaefdb9c3445bb5a455037fe20880648d42d258d2283d351 | 16914 B | 600x980
+m04-1040w.webp | IMG_DEFECT/accept_20261119/out/04_tummy_espelho_v2.png sha256:d50e9125f03c45d1ad626a0be8c29efae178e370bf71448c0b21c0eb92e6e2f0 | .oc/ativos/recortar.py sha256:0dabcebe6a4e2c07ecfd3bdcffd4ae025a934db8cb4f5c4200fff0e659aef3bc; IMG-SWAP re-cut of the accepted IMG-DEFECT plate, crop, downscale | crop 0,30,1200,900 (1200x870) | LANCZOS to 1040x754 from 1200x870 | WebP q82 method 6, Pillow 12.3.0 | sha256:1116b4cfd230605436d8cb7054976eefb4ae8c41577672b550b4de0756bca9c8 | 21620 B | 1040x754
+m04-350w.webp | IMG_DEFECT/accept_20261119/out/04_tummy_espelho_v2.png sha256:d50e9125f03c45d1ad626a0be8c29efae178e370bf71448c0b21c0eb92e6e2f0 | .oc/ativos/recortar.py sha256:0dabcebe6a4e2c07ecfd3bdcffd4ae025a934db8cb4f5c4200fff0e659aef3bc; IMG-SWAP re-cut of the accepted IMG-DEFECT plate, crop, downscale | crop 0,30,1200,900 (1200x870) | LANCZOS to 350x254 from 1200x870 | WebP q82 method 6, Pillow 12.3.0 | sha256:5330c84b11e9a71f939c2dab4c77e708ceb5bb82c339e44630a9d5a7fcb434de | 6622 B | 350x254
+m04-520w.webp | IMG_DEFECT/accept_20261119/out/04_tummy_espelho_v2.png sha256:d50e9125f03c45d1ad626a0be8c29efae178e370bf71448c0b21c0eb92e6e2f0 | .oc/ativos/recortar.py sha256:0dabcebe6a4e2c07ecfd3bdcffd4ae025a934db8cb4f5c4200fff0e659aef3bc; IMG-SWAP re-cut of the accepted IMG-DEFECT plate, crop, downscale | crop 0,30,1200,900 (1200x870) | LANCZOS to 520x377 from 1200x870 | WebP q82 method 6, Pillow 12.3.0 | sha256:c69805488734eb535aa148d6ae980d9491d82beec5f832fc0aca28a8da03d8e8 | 10568 B | 520x377
+m04-700w.webp | IMG_DEFECT/accept_20261119/out/04_tummy_espelho_v2.png sha256:d50e9125f03c45d1ad626a0be8c29efae178e370bf71448c0b21c0eb92e6e2f0 | .oc/ativos/recortar.py sha256:0dabcebe6a4e2c07ecfd3bdcffd4ae025a934db8cb4f5c4200fff0e659aef3bc; IMG-SWAP re-cut of the accepted IMG-DEFECT plate, crop, downscale | crop 0,30,1200,900 (1200x870) | LANCZOS to 700x508 from 1200x870 | WebP q82 method 6, Pillow 12.3.0 | sha256:2046c33f53617940bbdc46df7855dbfd6f1d68691367da0b88de96079b8b76e1 | 13792 B | 700x508
+m06-300w.webp | IMG_DEFECT/out/06_colo_1745_v6.png sha256:bf0bec7abf0397070e79b079479554d2b73d14da6471124d754fe568b893fc2a | .oc/ativos/recortar.py sha256:0dabcebe6a4e2c07ecfd3bdcffd4ae025a934db8cb4f5c4200fff0e659aef3bc; IMG-SWAP re-cut of the accepted IMG-DEFECT plate, crop, downscale | crop 0,0,981,1602 (981x1602) | LANCZOS to 300x490 from 981x1602 | WebP q82 method 6, Pillow 12.3.0 | sha256:c6a9d617b2f1cc9e32feced37c7d949cdc8a3ce50031f619da4d0840239b6630 | 8130 B | 300x490
+m06-600w.webp | IMG_DEFECT/out/06_colo_1745_v6.png sha256:bf0bec7abf0397070e79b079479554d2b73d14da6471124d754fe568b893fc2a | .oc/ativos/recortar.py sha256:0dabcebe6a4e2c07ecfd3bdcffd4ae025a934db8cb4f5c4200fff0e659aef3bc; IMG-SWAP re-cut of the accepted IMG-DEFECT plate, crop, downscale | crop 0,0,981,1602 (981x1602) | LANCZOS to 600x980 from 981x1602 | WebP q82 method 6, Pillow 12.3.0 | sha256:7e6c4be2aab9b57186660ddddf18d80a9610d7bb0912536fc56a626e3b44826a | 17804 B | 600x980
+
+IMG-SWAP (2026-11-19): re-cut from the accepted defect-pass plates; sources and acceptance: IMG_DEFECT/out/PROVENANCE.md (plates 1-2, layers, crops.json) and IMG_DEFECT/accept_20261119/PROVENANCE.md (acceptance, plate 4 fix run).

diff --git a/web/public/cenas/desenvolvimento/PROVENANCE.md b/web/public/cenas/desenvolvimento/PROVENANCE.md
@@ -4,9 +4,11 @@ Plates are read-only sources under DIRECAO_FABLE (sha256 asserted by the script)
 
 Columns: file | source + sha256 | script + sha256 | crop | scale | encoder/quality | output sha256 | bytes | size
 
-m04-heroi-1100w.webp | DIRECAO_FABLE/4_cenas/04_tummy_espelho.png sha256:6b02a8a5d4df0db79bbb8960d174543c9bad64354b8654be19fa18bcab4074b4 | .oc/ativos/preparar_placas.py sha256:cd37214997b29d2d0d9331a49c32d5986e0bc1d73f75592ef88d849987d21b6e; snap whole plate to prep.py table, crop, downscale | crop 0,0,1672,941 (1672x941) | LANCZOS to 1100x619 from 1672x941 | WebP q82 method 6, Pillow 12.3.0 | sha256:a1c1f77df37cfea2091526798c14950296100b11176adaf4185f91f1f9c4203a | 16004 B | 1100x619
-m04-heroi-1672w.webp | DIRECAO_FABLE/4_cenas/04_tummy_espelho.png sha256:6b02a8a5d4df0db79bbb8960d174543c9bad64354b8654be19fa18bcab4074b4 | .oc/ativos/preparar_placas.py sha256:cd37214997b29d2d0d9331a49c32d5986e0bc1d73f75592ef88d849987d21b6e; snap whole plate to prep.py table, crop, downscale | crop 0,0,1672,941 (1672x941) | none (1:1) to 1672x941 from 1672x941 | WebP q82 method 6, Pillow 12.3.0 | sha256:db01bb8073fb61a2714cbfc92a7ee5db169f91a173ed6c88d8b8e7ca5f528884 | 25686 B | 1672x941
-m04-heroi-390c-390w.webp | DIRECAO_FABLE/4_cenas/04_tummy_espelho.png sha256:6b02a8a5d4df0db79bbb8960d174543c9bad64354b8654be19fa18bcab4074b4 | .oc/ativos/preparar_placas.py sha256:cd37214997b29d2d0d9331a49c32d5986e0bc1d73f75592ef88d849987d21b6e; snap whole plate to prep.py table, crop, downscale | crop 0,40,1360,870 (1360x830) | LANCZOS to 390x238 from 1360x830 | WebP q82 method 6, Pillow 12.3.0 | sha256:e24a5458e56b3d9470309e71317a5c7a2214cf29037e9cb0f5d91e029be91202 | 6318 B | 390x238
-m04-heroi-390c-780w.webp | DIRECAO_FABLE/4_cenas/04_tummy_espelho.png sha256:6b02a8a5d4df0db79bbb8960d174543c9bad64354b8654be19fa18bcab4074b4 | .oc/ativos/preparar_placas.py sha256:cd37214997b29d2d0d9331a49c32d5986e0bc1d73f75592ef88d849987d21b6e; snap whole plate to prep.py table, crop, downscale | crop 0,40,1360,870 (1360x830) | LANCZOS to 780x476 from 1360x830 | WebP q82 method 6, Pillow 12.3.0 | sha256:e4d458391c97f8d45f0bf4e827bdcfefe35e6a714b02418f68ee21ab90b40a9e | 13106 B | 780x476
+m04-heroi-1100w.webp | IMG_DEFECT/accept_20261119/out/04_tummy_espelho_v2.png sha256:d50e9125f03c45d1ad626a0be8c29efae178e370bf71448c0b21c0eb92e6e2f0 | .oc/ativos/recortar.py sha256:0dabcebe6a4e2c07ecfd3bdcffd4ae025a934db8cb4f5c4200fff0e659aef3bc; IMG-SWAP re-cut of the accepted IMG-DEFECT plate, crop, downscale | crop 0,0,1672,941 (1672x941) | LANCZOS to 1100x619 from 1672x941 | WebP q82 method 6, Pillow 12.3.0 | sha256:c2d0dcaebd40b1a5550cb3431860b378aefbcb4b0a4d93419949d904c9102209 | 16588 B | 1100x619
+m04-heroi-1672w.webp | IMG_DEFECT/accept_20261119/out/04_tummy_espelho_v2.png sha256:d50e9125f03c45d1ad626a0be8c29efae178e370bf71448c0b21c0eb92e6e2f0 | .oc/ativos/recortar.py sha256:0dabcebe6a4e2c07ecfd3bdcffd4ae025a934db8cb4f5c4200fff0e659aef3bc; IMG-SWAP re-cut of the accepted IMG-DEFECT plate, crop, downscale | crop 0,0,1672,941 (1672x941) | none (1:1) from 1672x941 | WebP q82 method 6, Pillow 12.3.0 | sha256:dd18f5fdefa3f837bfb1a9b36a26ec5251684c18f353e311a37aa851eda1c6ff | 26530 B | 1672x941
+m04-heroi-390c-390w.webp | IMG_DEFECT/accept_20261119/out/04_tummy_espelho_v2.png sha256:d50e9125f03c45d1ad626a0be8c29efae178e370bf71448c0b21c0eb92e6e2f0 | .oc/ativos/recortar.py sha256:0dabcebe6a4e2c07ecfd3bdcffd4ae025a934db8cb4f5c4200fff0e659aef3bc; IMG-SWAP re-cut of the accepted IMG-DEFECT plate, crop, downscale | crop 0,40,1360,870 (1360x830) | LANCZOS to 390x238 from 1360x830 | WebP q82 method 6, Pillow 12.3.0 | sha256:7b71caf86305eaa10ce2fb554b64befd89b38951dbe7b8f8410bbebe37ca0b38 | 6380 B | 390x238
+m04-heroi-390c-780w.webp | IMG_DEFECT/accept_20261119/out/04_tummy_espelho_v2.png sha256:d50e9125f03c45d1ad626a0be8c29efae178e370bf71448c0b21c0eb92e6e2f0 | .oc/ativos/recortar.py sha256:0dabcebe6a4e2c07ecfd3bdcffd4ae025a934db8cb4f5c4200fff0e659aef3bc; IMG-SWAP re-cut of the accepted IMG-DEFECT plate, crop, downscale | crop 0,40,1360,870 (1360x830) | LANCZOS to 780x476 from 1360x830 | WebP q82 method 6, Pillow 12.3.0 | sha256:414eed891e6e3e3a22dec1195b91a7d322689d0ec188d716658ef3d3360f279c | 13662 B | 780x476
 m12-familia-390w.webp | DIRECAO_FABLE/6_scenes1/M12_arms_v3.png sha256:e497a06243a56024d79f7c0b9bbe2166b809acb4ba59b12bf2906c94b7fdc265 | .oc/ativos/preparar_placas.py sha256:cd37214997b29d2d0d9331a49c32d5986e0bc1d73f75592ef88d849987d21b6e; snap whole plate to prep.py table, crop, downscale | crop 0,540,585,1172 (585x632) | LANCZOS to 390x421 from 585x632 | WebP q82 method 6, Pillow 12.3.0 | sha256:b6c4da3a888a10b8002325f54608645099b0b4c03f45535223a2b8f9c0c6b9c9 | 12054 B | 390x421
 m12-familia-585w.webp | DIRECAO_FABLE/6_scenes1/M12_arms_v3.png sha256:e497a06243a56024d79f7c0b9bbe2166b809acb4ba59b12bf2906c94b7fdc265 | .oc/ativos/preparar_placas.py sha256:cd37214997b29d2d0d9331a49c32d5986e0bc1d73f75592ef88d849987d21b6e; snap whole plate to prep.py table, crop, downscale | crop 0,540,585,1172 (585x632) | none (1:1) to 585x632 from 585x632 | WebP q82 method 6, Pillow 12.3.0 | sha256:d5b8ad831f46fe02113f1e5195324856c5feb13cbdefb257b5491f26e9e3c6d8 | 17930 B | 585x632
+
+IMG-SWAP (2026-11-19): re-cut from the accepted defect-pass plates; sources and acceptance: IMG_DEFECT/out/PROVENANCE.md (plates 1-2, layers, crops.json) and IMG_DEFECT/accept_20261119/PROVENANCE.md (acceptance, plate 4 fix run).
